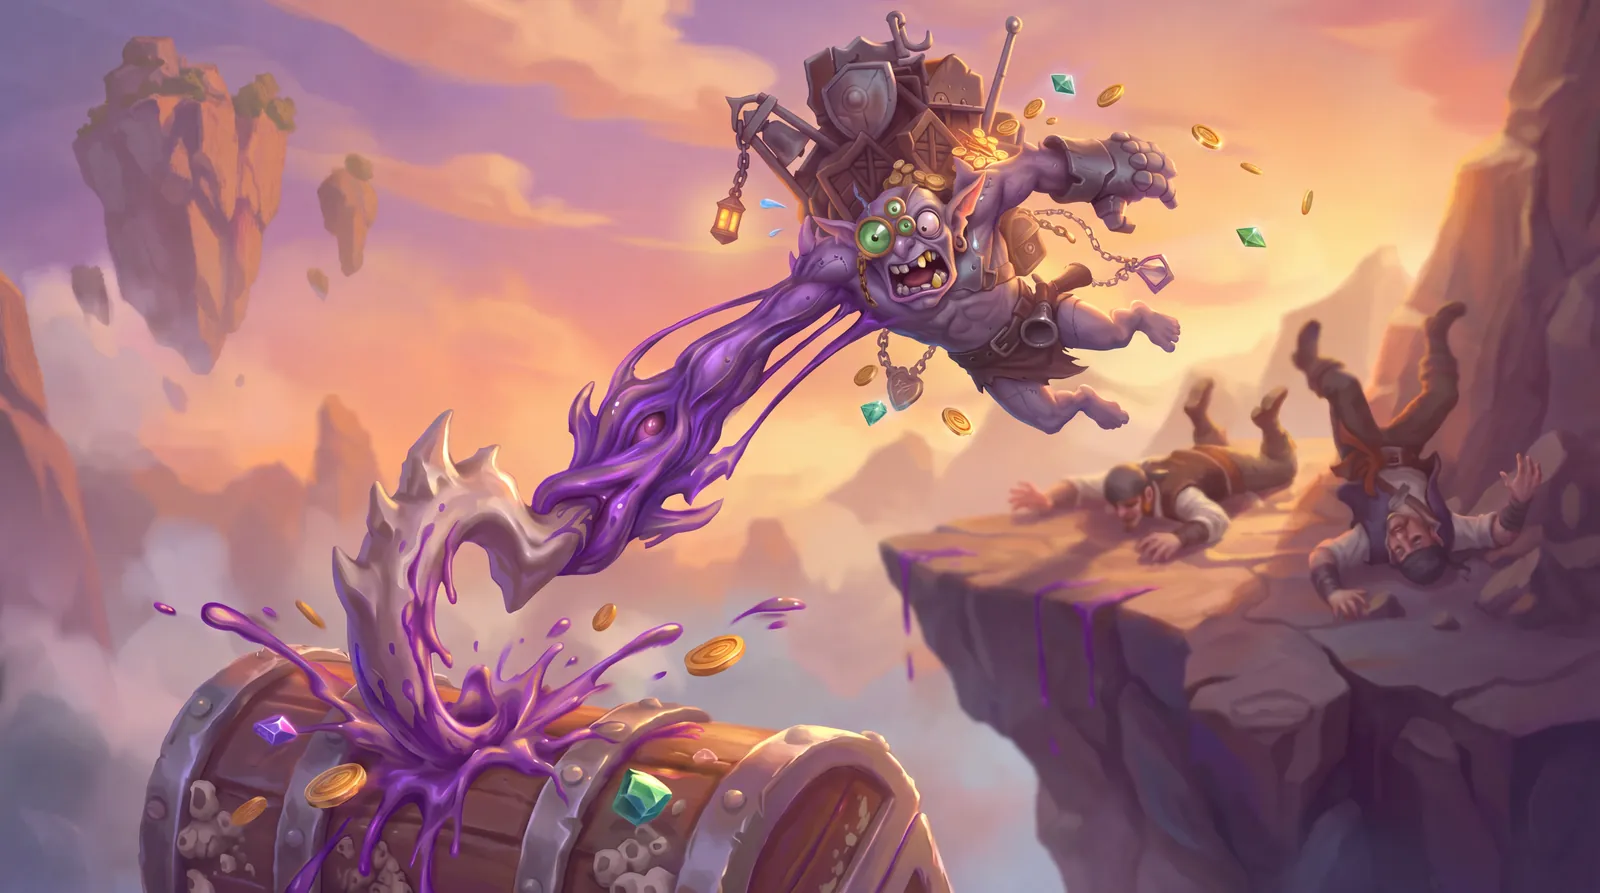
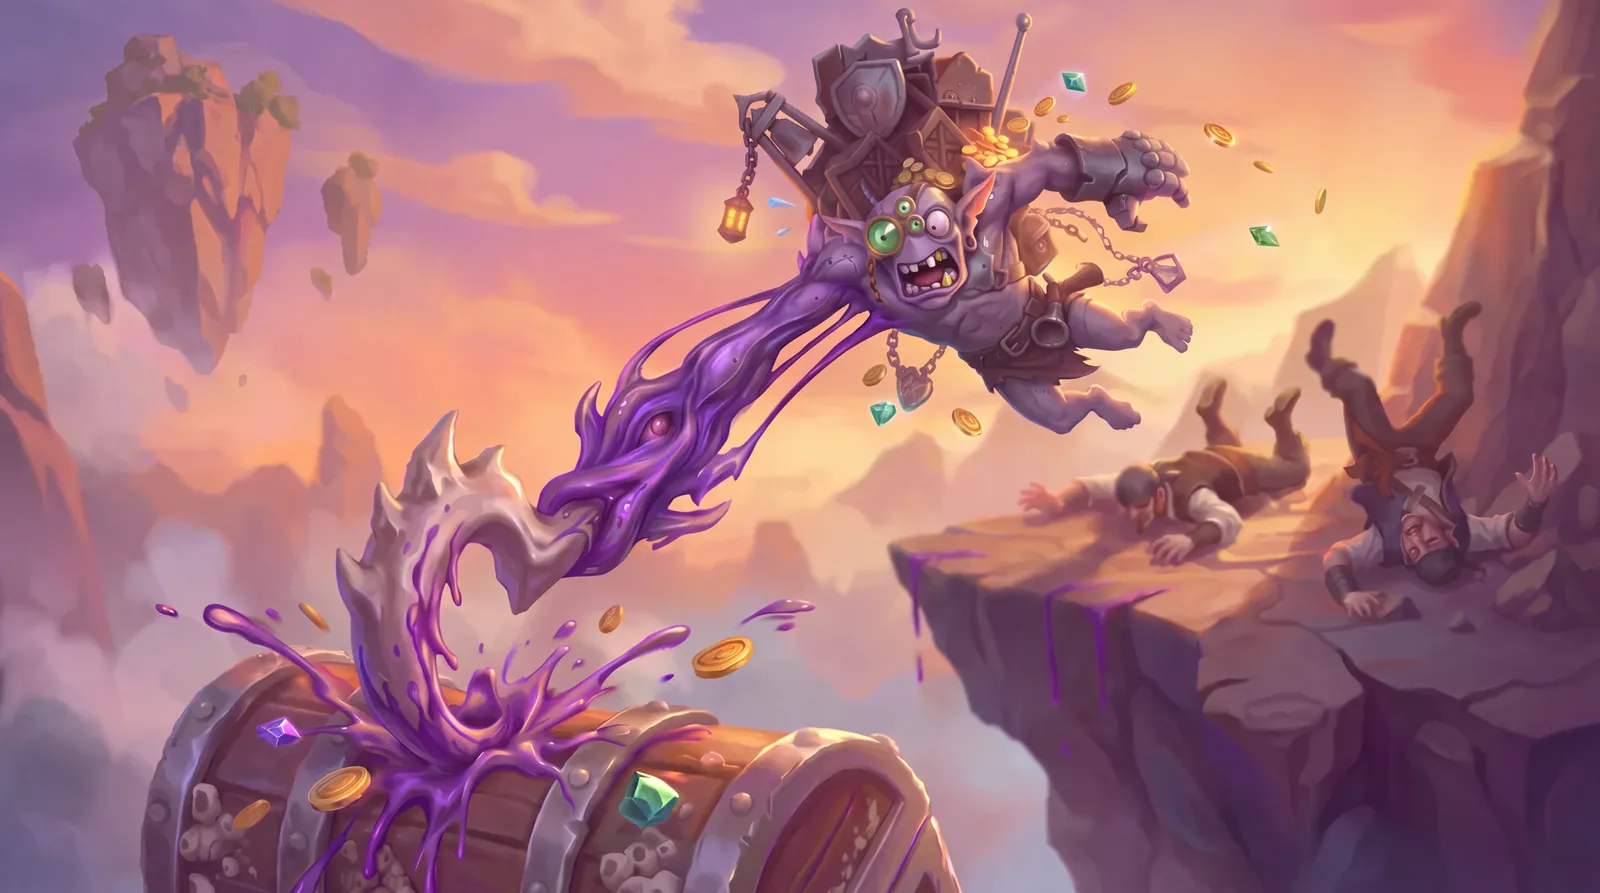
New Grimble splash, clean page ending
Grimble splash without the nose, with a version on splash URLs so browsers fetch it.
The join section and footer now fill the last screen together, and the footer gets room under the cookie bar.

Claude-Session: https://claude.ai/code/session_015vSSPmpJoF22Rm1LS1od6V

diff --git a/assets/site.js b/assets/site.js
@@ -203,7 +203,8 @@ const pick = document.getElementById("h-pick");
 if (pick) {
   const art = document.getElementById("h-art");
   const $ = (id) => document.getElementById(id);
-  const src = (id, w) => `assets/img/hunters/${id}-${w}.webp`;
+  const ART_V = "2026-11-08b";
+  const src = (id, w) => `assets/img/hunters/${id}-${w}.webp?v=${ART_V}`;
   const set = (id) => `${src(id, 960)} 960w, ${src(id, 1600)} 1600w, ${src(id, 2400)} 2400w`;
   let current = 0;
   const fig = spinner(document.getElementById("h-fig"), document.getElementById("h-fig-img"));
@@ -499,6 +500,8 @@ const POSTHOG_HOST = "https://us.i.posthog.com";
 if (POSTHOG_KEY) {
   !function(t,e){var o,n,p,r;e.__SV||(window.posthog=e,e._i=[],e.init=function(i,s,a){function g(t,e){var o=e.split(".");2==o.length&&(t=t[o[0]],e=o[1]),t[e]=function(){t.push([e].concat(Array.prototype.slice.call(arguments,0)))}}(p=t.createElement("script")).type="text/javascript",p.crossOrigin="anonymous",p.async=!0,p.src=s.api_host.replace(".i.posthog.com","-assets.i.posthog.com")+"/static/array.js",(r=t.getElementsByTagName("script")[0]).parentNode.insertBefore(p,r);var u=e;for(void 0!==a?u=e[a]=[]:a="posthog",u.people=u.people||[],u.toString=function(t){var e="posthog";return"posthog"!==a&&(e+="."+a),t||(e+=" (stub)"),e},u.people.toString=function(){return u.toString(1)+".people (stub)"},o="capture identify alias people.set people.set_once set_config register register_once unregister opt_out_capturing has_opted_out_capturing opt_in_capturing reset isFeatureEnabled onFeatureFlags getFeatureFlag getFeatureFlagPayload reloadFeatureFlags group updateEarlyAccessFeatureEnrollment getEarlyAccessFeatures getActiveMatchingSurveys getSurveys onSessionId".split(" "),n=0;n<o.length;n++)g(u,o[n]);e._i.push([i,s,a])},e.__SV=1)}(document,window.posthog||[]);
   // Cookieless until the visitor accepts; then PostHog may remember them so return visits link up.
+  const foot = document.querySelector(".foot");
+  if (foot) { const fh = () => document.documentElement.style.setProperty("--fh", foot.offsetHeight + "px"); fh(); new ResizeObserver(fh).observe(foot, { box: "border-box" }); }
   let consent = null;
   try { consent = localStorage.getItem("boki-consent"); } catch (e) {}
   posthog.init(POSTHOG_KEY, { api_host: POSTHOG_HOST, persistence: consent === "yes" ? "localStorage+cookie" : "memory", person_profiles: "identified_only" });
@@ -508,8 +511,10 @@ if (POSTHOG_KEY) {
     if (v === "yes") posthog.set_config({ persistence: "localStorage+cookie" });
     else { posthog.set_config({ persistence: "memory" }); try { posthog.persistence && posthog.persistence.clear(); } catch (e) {} }
     bar.classList.remove("show"); setTimeout(() => { bar.hidden = true; }, 300);
+    document.documentElement.style.removeProperty("--ch");
   };
-  const open = () => { bar.hidden = false; requestAnimationFrame(() => bar.classList.add("show")); };
+  // While the cookie bar is up, the footer gets room beneath it so nothing at the bottom is covered
+  const open = () => { bar.hidden = false; requestAnimationFrame(() => { bar.classList.add("show"); document.documentElement.style.setProperty("--ch", bar.offsetHeight + 36 + "px"); }); };
   if (bar) {
     bar.querySelector("[data-yes]").addEventListener("click", () => choose("yes"));
     bar.querySelector("[data-no]").addEventListener("click", () => choose("no"));

diff --git a/presskit.html b/presskit.html
@@ -11,7 +11,7 @@
 <link rel="apple-touch-icon" href="/assets/img/apple-touch-icon.png">
 <meta property="og:title" content="Project Boki press kit">
 <meta property="og:image" content="https://projectboki.com/assets/img/og.jpg?v=5">
-<link rel="stylesheet" href="assets/style.css?v=106">
+<link rel="stylesheet" href="assets/style.css?v=107">
 <link rel="canonical" href="https://projectboki.com/presskit.html">
 <link rel="manifest" href="/site.webmanifest">
 </head>
@@ -75,7 +75,7 @@
           <a href="assets/img/hunters/cinder-2400.webp" target="_blank"><img src="assets/img/hunters/cinder-960.webp" alt="Cinder splash art" loading="lazy"></a>
           <a href="assets/img/hunters/tarek-2400.webp" target="_blank"><img src="assets/img/hunters/tarek-960.webp" alt="Tenzo splash art" loading="lazy"></a>
           <a href="assets/img/hunters/ryzz-2400.webp" target="_blank"><img src="assets/img/hunters/ryzz-960.webp" alt="Sparkle splash art" loading="lazy"></a>
-          <a href="assets/img/hunters/grimble-2400.webp" target="_blank"><img src="assets/img/hunters/grimble-960.webp" alt="Grimble splash art" loading="lazy"></a>
+          <a href="assets/img/hunters/grimble-2400.webp?v=2026-11-08b" target="_blank"><img src="assets/img/hunters/grimble-960.webp?v=2026-11-08b" alt="Grimble splash art" loading="lazy"></a>
           <a href="assets/img/hunters/pip-2400.webp" target="_blank"><img src="assets/img/hunters/pip-960.webp" alt="Meeko splash art" loading="lazy"></a>
           <a href="assets/img/hunters/sable-2400.webp" target="_blank"><img src="assets/img/hunters/sable-960.webp" alt="Sable splash art" loading="lazy"></a>
           <a href="assets/img/hunters/lisette-2400.webp" target="_blank"><img src="assets/img/hunters/lisette-960.webp" alt="Lace splash art" loading="lazy"></a>
@@ -103,6 +103,6 @@
     <a href="privacy.html">Privacy</a>
   </nav>
 </footer>
-<script src="assets/site.js?v=91"></script>
+<script src="assets/site.js?v=92"></script>
 </body>
 </html>

diff --git a/assets/style.css b/assets/style.css
@@ -318,6 +318,9 @@ h1, h2, h3, .band p { text-wrap: balance; }
 .consent-b { display: flex; gap: 6px; flex: none; }
 .consent-b .btn { padding: 9px 16px; font-size: 14px; border-radius: 999px; }
 @media (max-width: 600px) { .consent { bottom: 12px; width: calc(100% - 24px); max-width: none; flex-direction: column; align-items: stretch; gap: 10px; padding: 14px; border-radius: 20px; } .consent p { white-space: normal; text-align: center; } .consent-b .btn { flex: 1; } }
+/* Last screen: the join section and the footer fill the viewport together, so the page ends on a whole composition */
+.join { min-height: calc(100svh - var(--fh, 290px)); padding: calc(72px + clamp(28px, 4vh, 56px)) 0 clamp(36px, 6vh, 72px); }
+.foot { padding-bottom: max(36px, var(--ch, 0px)); transition: padding-bottom .3s ease; }
 .foot-c { width: min(var(--max), 100%); margin: 28px auto 0; padding-top: 22px; border-top: 1px solid var(--line); font-size: 14px; color: rgba(255,255,255,.45); }
 
 /* ---------- tablet ---------- */
@@ -387,9 +390,13 @@ h1, h2, h3, .band p { text-wrap: balance; }
   #boki .pick-label { order: 2; }
   #boki .bk-pick { order: 3; }
   #boki .bk-sheet { order: 4; margin-top: 14px; border: 1px solid rgba(255,255,255,.08); border-radius: 18px; background: var(--bg-2); }
-  .foot-in { flex-direction: column; text-align: center; }
-  .foot nav { justify-content: center; }
-  .foot-c { text-align: center; }
+  .foot-in { flex-direction: column; text-align: center; gap: 14px; }
+  .foot { padding-top: 36px; }
+  .foot-wm img { width: 128px; }
+  .foot nav { justify-content: center; font-size: 15px; gap: 0; }
+  .foot nav a { padding: 0 10px; }
+  .foot-c { text-align: center; margin-top: 14px; padding-top: 16px; }
+  .join { padding-top: calc(64px + 24px); }
 }
 
 /* ---------- press kit ---------- */

diff --git a/index.html b/index.html
@@ -21,7 +21,7 @@
 <link rel="preload" href="assets/fonts/LilitaOne.woff2" as="font" type="font/woff2" crossorigin>
 <link rel="preload" as="image" href="assets/img/wordmark-1280.webp" imagesrcset="assets/img/wordmark-640.webp 640w, assets/img/wordmark-1280.webp 1280w, assets/img/wordmark-2000.webp 2000w" imagesizes="(max-width: 720px) 90vw, 720px">
 
-<link rel="stylesheet" href="assets/style.css?v=106">
+<link rel="stylesheet" href="assets/style.css?v=107">
 <script>
   // Hold the hero until the display font is in, so nothing jumps on load.
   (function (d) {
@@ -225,6 +225,6 @@
   <symbol id="i-play" viewBox="0 0 24 24"><path d="M7 4.5v15a1 1 0 0 0 1.5.86l12.4-7.5a1 1 0 0 0 0-1.72L8.5 3.64A1 1 0 0 0 7 4.5Z"/></symbol>
 </svg>
 
-<script src="assets/site.js?v=91"></script>
+<script src="assets/site.js?v=92"></script>
 </body>
 </html>

diff --git a/privacy.html b/privacy.html
@@ -9,7 +9,7 @@
 <link rel="icon" href="/favicon.ico" sizes="any">
 <link rel="icon" href="/assets/img/favicon.png" type="image/png">
 <link rel="apple-touch-icon" href="/assets/img/apple-touch-icon.png">
-<link rel="stylesheet" href="assets/style.css?v=106">
+<link rel="stylesheet" href="assets/style.css?v=107">
 <link rel="canonical" href="https://projectboki.com/privacy.html">
 <link rel="manifest" href="/site.webmanifest">
 </head>
@@ -71,6 +71,6 @@
   <div class="consent-b"><button class="btn btn-glass btn-sm" type="button" data-no>Decline</button><button class="btn btn-solid btn-sm" type="button" data-yes>Accept</button></div>
 </div>
 
-<script src="assets/site.js?v=91"></script>
+<script src="assets/site.js?v=92"></script>
 </body>
 </html>
